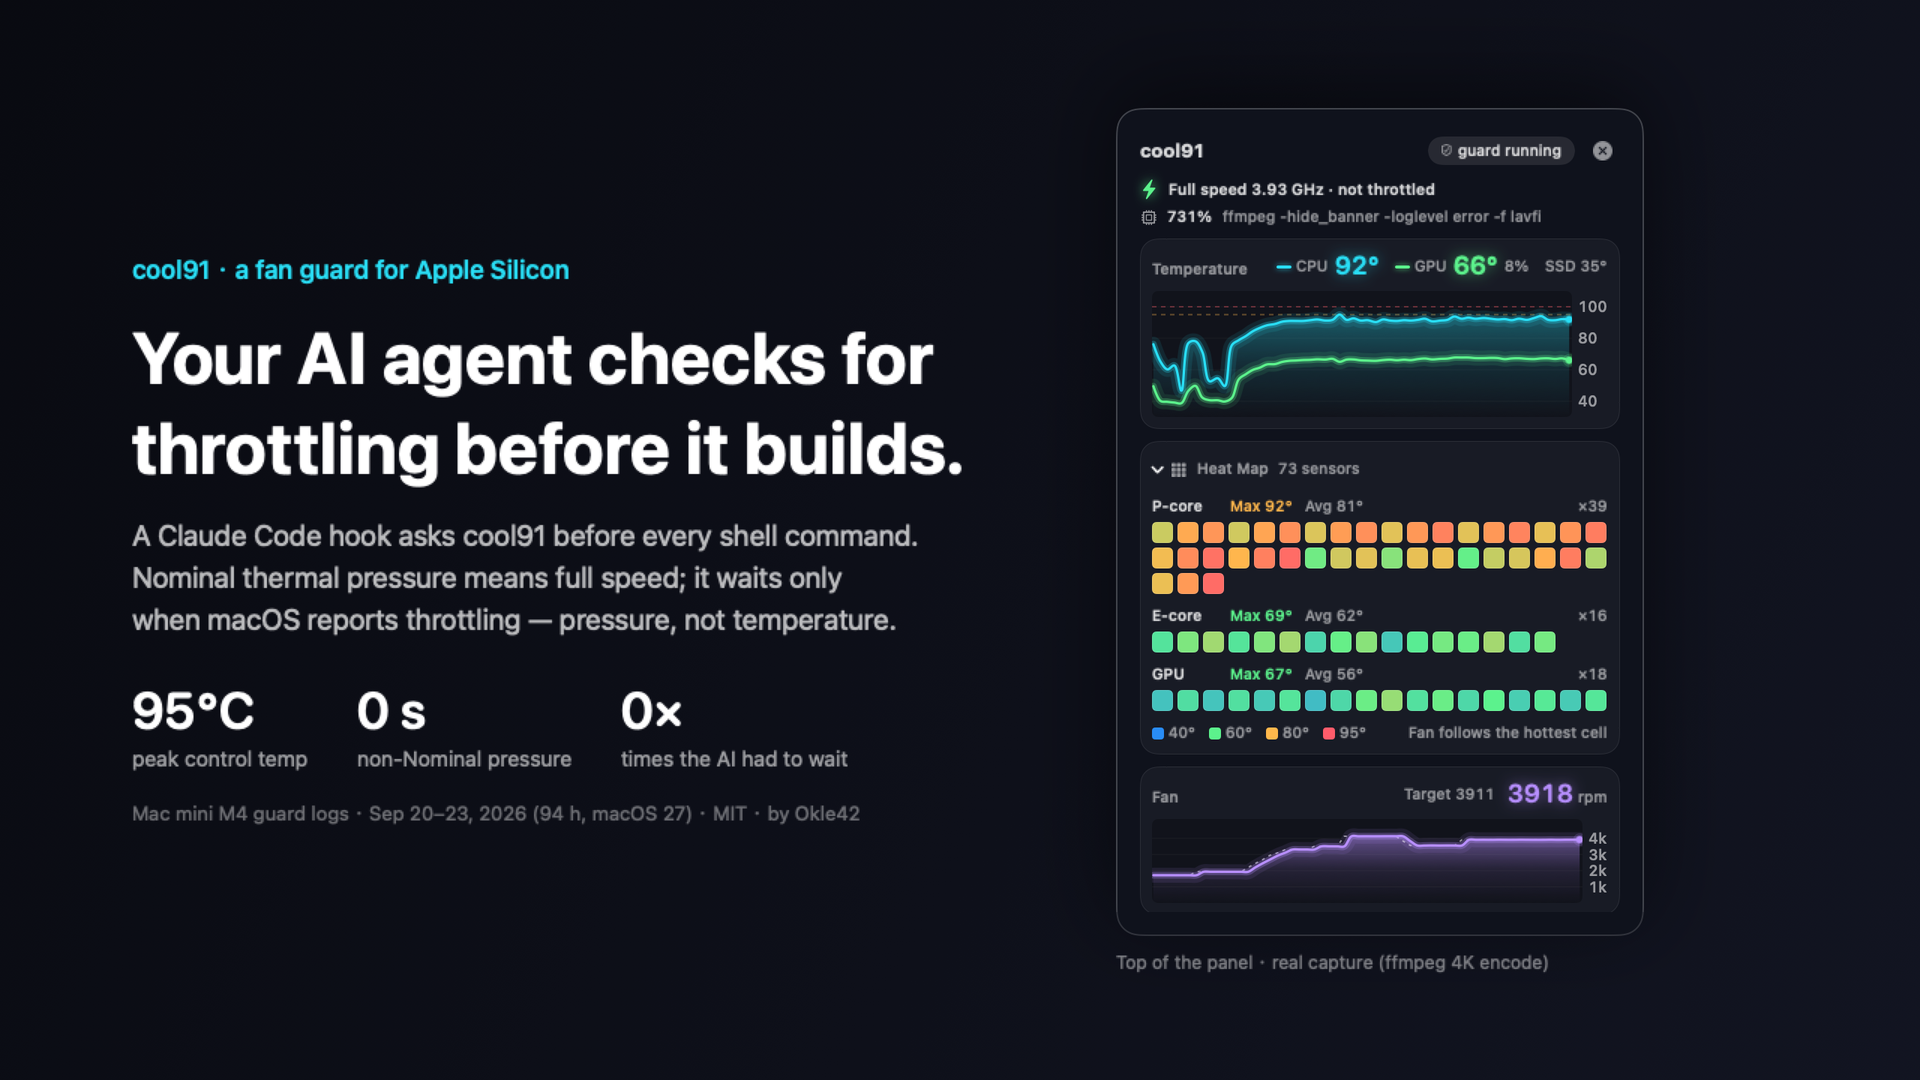
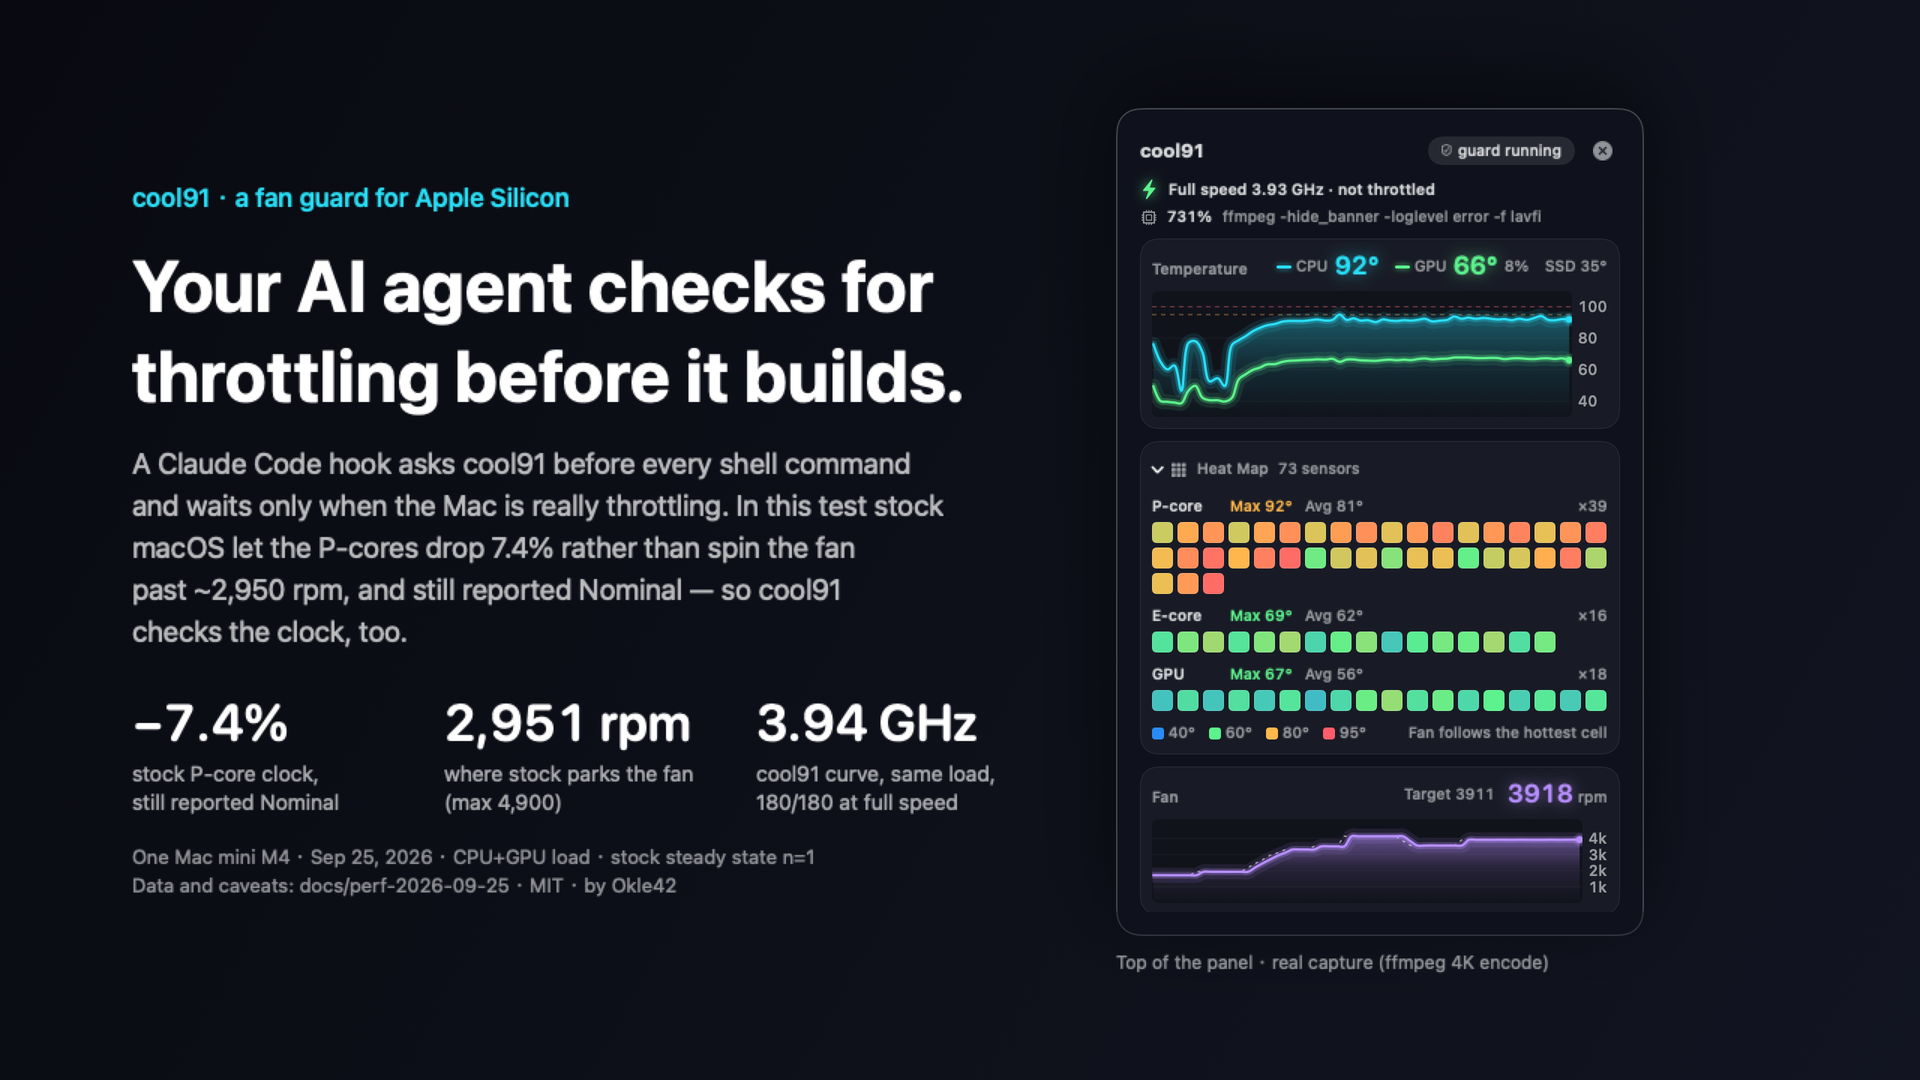
hero 改用 09-25 實測三個數字，拿掉「全程全速」「寧可降頻」
- 3.94 GHz 副標改「取樣窗全速（180/180 筆）」：run4 升溫段輪詢有 3916／3919，不是嚴格全程
- 內文改描述行為：這次實測原廠讓 P-core 掉 7.4%、風扇停在 2,951 rpm；英文改 rather than spin the fan past ~2,950 rpm
- 重產 hero.png、hero-en.png（1920×1080）

Claude-Session: https://claude.ai/code/session_01BF2QgA34kv7XpZyA5rVvwZ

Changed region(s): [[0.0625, 0.2444, 0.5, 0.6111], [0.0625, 0.6417, 0.5312, 0.825], [0.0625, 0.1528, 0.3125, 0.2139]]

diff --git a/scripts/snapshot/main.swift b/scripts/snapshot/main.swift
@@ -379,9 +379,13 @@ struct PanelCrop: View {
 @MainActor func renderHero(panelPNG: String, lang: String, out: String) {
     guard let img = NSImage(contentsOfFile: panelPNG) else { fatalError("讀不到 \(panelPNG)") }
     let zh = lang != "en"
+    // 三個數字出自 docs/perf-2026-09-25/（CPU＋GPU 滿載、同一台 Mac mini M4；原廠穩態只有 1 輪，限制寫在頁尾與該 README）：
+    //   −7.4% ＝ 原廠自動 P-core 3,643.8 / 3936 MHz（run3 pm/04-auto-r2.txt 90 筆），pressure 79/79＋90/90 Nominal
+    //   2,951 rpm ＝ 原廠自動取樣窗風扇（run3 results.csv 第 5 行）；4,900 是韌體上限，cool42 曲線同負載跑到 4,854–4,910
+    //   3.94 GHz ＝ cool42 曲線兩輪 powermetrics 180/180 筆 3936 MHz（run4 pm/01、03）
     let stats: [(String, String)] = zh
-        ? [("95°C", "4 天最高控制溫度"), ("0 秒", "熱壓力非 Nominal"), ("0 次", "hook 讓 AI 等待")]
-        : [("95°C", "peak control temp"), ("0 s", "non-Nominal pressure"), ("0×", "times the AI had to wait")]
+        ? [("−7.4%", "原廠 P-core 時脈\nmacOS 仍回報 Nominal"), ("2,951 rpm", "原廠風扇停在這\n上限是 4,900"), ("3.94 GHz", "cool42 曲線同負載\n取樣窗全速（180/180 筆）")]
+        : [("−7.4%", "stock P-core clock,\nstill reported Nominal"), ("2,951 rpm", "where stock parks the fan\n(max 4,900)"), ("3.94 GHz", "cool42 curve, same load,\n180/180 at full speed")]
     // 面板只取到風扇卡為止：風扇卡下緣在 535.5pt（352pt 寬時；中英文相同），裁在 536，
     // 下面再補 16pt 面板底色（和左右留白一樣寬），框的下緣就是收好的面板底邊，不會切到下一張卡
     let cropH: CGFloat = 536, tail: CGFloat = 16
@@ -394,21 +398,25 @@ struct PanelCrop: View {
                     .font(.system(size: 17, weight: .semibold)).foregroundStyle(Color(red: 0.16, green: 0.87, blue: 0.96))
                 Text(zh ? "AI 寫程式時，\n自己看降頻排隊。" : "Your AI agent checks for\nthrottling before it builds.")
                     .font(.system(size: zh ? 52 : 48, weight: .bold)).foregroundStyle(.white).lineSpacing(4).fixedSize(horizontal: false, vertical: true)
-                Text(zh ? "Claude Code 跑重指令前先問 cool42。\nmacOS 回報 Nominal 就全速放行，回報降頻才等。\n判斷看 thermal pressure，不看溫度。"
-                        : "A Claude Code hook asks cool42 before every shell command.\nNominal thermal pressure means full speed; it waits only\nwhen macOS reports throttling — pressure, not temperature.")
+                Text(zh ? "Claude Code 跑重指令前先問 cool42，真的降頻才等。\n這次實測原廠讓 P-core 掉 7.4%、風扇停在 2,951 rpm，\nmacOS 還回報「沒降頻」；\n所以 cool42 同時看熱壓力、GPU 限頻和 P-core 時脈。"
+                        : "A Claude Code hook asks cool42 before every shell command\nand waits only when the Mac is really throttling. In this test stock\nmacOS let the P-cores drop 7.4% rather than spin the fan\npast ~2,950 rpm, and still reported Nominal — so cool42\nchecks the clock, too.")
                     .font(.system(size: 19)).foregroundStyle(Color.white.opacity(0.72)).lineSpacing(5).fixedSize(horizontal: false, vertical: true)
-                HStack(alignment: .top, spacing: 32) {
+                HStack(alignment: .top, spacing: 24) {
                     ForEach(stats, id: \.0) { v, k in
-                        VStack(alignment: .leading, spacing: 4) {
+                        VStack(alignment: .leading, spacing: 6) {
                             Text(v).font(.system(size: 34, weight: .semibold, design: .rounded).monospacedDigit()).foregroundStyle(.white)
-                            Text(k).font(.system(size: 14)).foregroundStyle(Color.white.opacity(0.6))
+                                .lineLimit(1).minimumScaleFactor(0.8)
+                            Text(k).font(.system(size: 14)).foregroundStyle(Color.white.opacity(0.66)).lineSpacing(2)
+                                .fixedSize(horizontal: false, vertical: true)
                         }
+                        .frame(width: 184, alignment: .leading)
                     }
                 }
                 .padding(.top, 8)
-                Text(zh ? "Mac mini M4 實機 log · 2026-09-20 → 09-23（94 小時，macOS 27）· MIT · by Okle42"
-                        : "Mac mini M4 guard logs · Sep 20–23, 2026 (94 h, macOS 27) · MIT · by Okle42")
-                    .font(.system(size: 13)).foregroundStyle(Color.white.opacity(0.4))
+                Text(zh ? "同一台 Mac mini M4 · 2026-09-25 · CPU＋GPU 滿載 · 原廠穩態 n=1\n資料與限制：docs/perf-2026-09-25 · MIT · by Okle42"
+                        : "One Mac mini M4 · Sep 25, 2026 · CPU+GPU load · stock steady state n=1\nData and caveats: docs/perf-2026-09-25 · MIT · by Okle42")
+                    .font(.system(size: 13)).foregroundStyle(Color.white.opacity(0.55)).lineSpacing(3)
+                    .fixedSize(horizontal: false, vertical: true)
             }
             .frame(width: 600, alignment: .leading)
             VStack(alignment: .leading, spacing: 10) {
@@ -421,7 +429,7 @@ struct PanelCrop: View {
                     .overlay(RoundedRectangle(cornerRadius: 16, style: .continuous).strokeBorder(Color.white.opacity(0.14), lineWidth: 1))
                     .shadow(color: .black.opacity(0.5), radius: 30, y: 12)
                 Text(zh ? "面板上半部 · 實機取樣（ffmpeg 4K 編碼）" : "Top of the panel · real capture (ffmpeg 4K encode)")
-                    .font(.system(size: 12)).foregroundStyle(Color.white.opacity(0.45))
+                    .font(.system(size: 12)).foregroundStyle(Color.white.opacity(0.55))
             }
         }
         .padding(.horizontal, 88).frame(maxHeight: .infinity)
